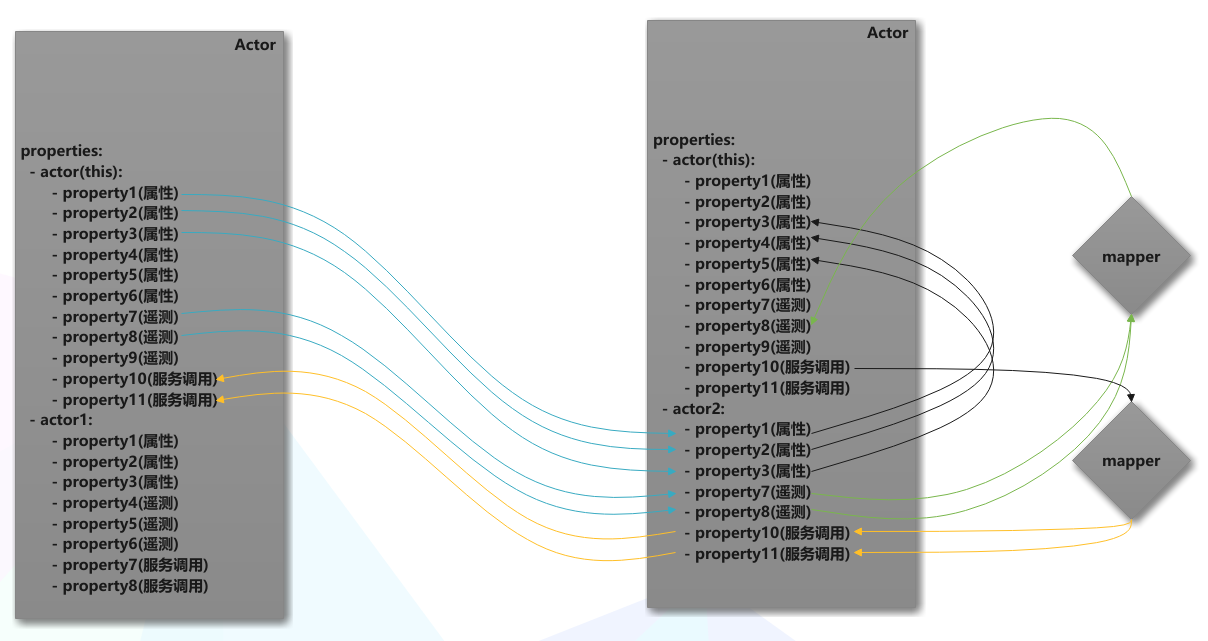
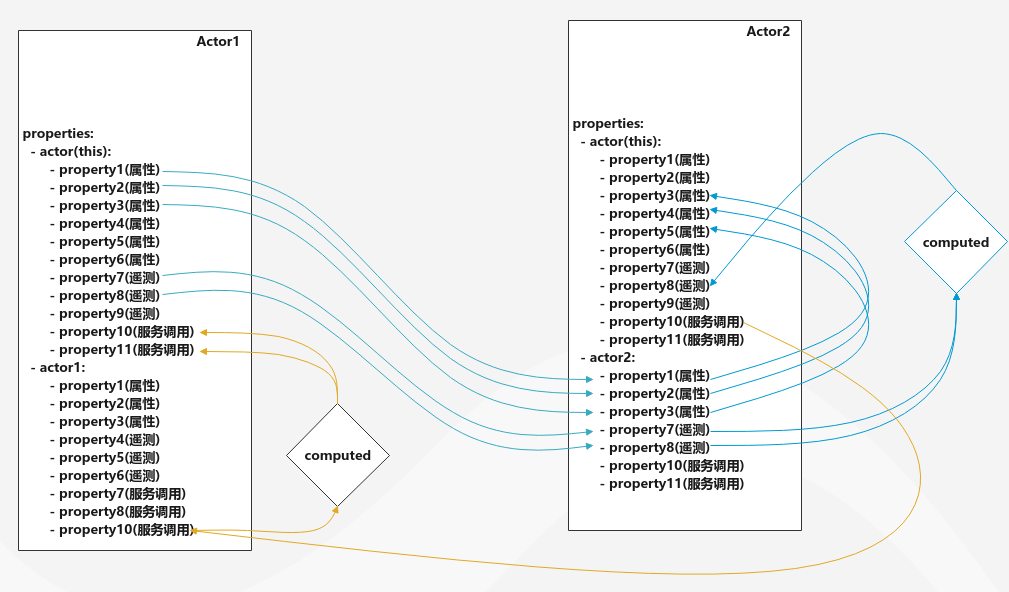
feat: uupdate entity & mapper docs.

diff --git a/docs/mapper/mapper.md b/docs/mapper/mapper.md
@@ -1,6 +1,6 @@
 ## 简介
 
-`Mapper`是对于用于实体与实体之间数据映射的一种对象，`Mapper`使用`MQL`描述实体与实体之间的数据映射。
+`mapper`是对于用于实体与实体之间数据映射的一种对象，`mapper`使用`MQL`描述实体与实体之间的数据映射。
 
 
 
@@ -11,26 +11,52 @@
 ![property-mapping](../images/property-mapping.png)
 
 
+### 概念
+
+- Actor：实体的运行时，维护实体的状态和提供的操作。
+- maper: Actor与Actor之间数据映射的执行实例。
+- computed： mapper内的计算模块，通过输入计算输出。
+- SourceActor：在映射中提供变更数据的Actor，如图中的Actor1。
+- TargetActor：在映射中作为映射目标的Actor，如图中的Actor2。
+
+
 我们通过对此过程的分析，可将这一过程分为三部分：
-1. 从一个或多个实体中选取部分属性，选取的数据可以构成一个`json`。
-2. 以选取的数据作为`Mapper`的输入，执行`Mapper`并输出一个`json`。
-3. 将`Mapper`执行的输出作为反馈更新目标实体的状态。
+1. 写复制传递实体属性的变更。
+2. 将属性的变更作为输入计算映射结果。
+3. 将映射计算结果更新到Actor。
 
 
 
-## 解析Mapper
+采用宏观的视角看来，实体与实体之间的数据映射就是从一个或多个`SourceActor`中选取部分属性作为输入，通过重组或计算得到输出，然后将输出更新到`TargetActor`。而我们可以对这一过程进行概括，来自`SourceActor`的输入组成一个`Json`数据，`映射`的输出是一个`Json`，那么此时我们发现我们所做的映射其实就是从`SourceActor`拿到输入`Json`，通过一定的转化`规则`将输入`Json`转化成另一个输出`Json`，然后在将输出的`Json`更新到`TargetActor`。
 
-![mapper-parse](../images/mapper-parse.png)
+![property-mapping-outline](../images/mapping-outline.png))
+
+我们通过对此过程的分析，可将这一过程分为三部分：
+1. 从一个或多个`SourceActor`中选取部分属性，选取的数据可以构成一个`json`。
+2. 以选取的数据作为`mapper`的输入，执行`mapper`并输出一个`json`。
+3. 将`mapper`执行的输出作为反馈更新目标实体的状态。
 
 
-## Mapper & Tentacles
+
+## 解析mapper
+
+我们知道`mapper`执行分为`选取输入`，`计算输出`，`更新目标Actor状态`三个阶段。为了满足这三个阶段，我们给`mapper`引入两个核心概念：`MQL`和`tentacle`，`MQL`是`mapper`的核心组件用于描述映射中json的转化规则，执行计算。`tentacle`译为`触手`，用于映射第一阶段中的属性变更的同步。
+
+![mapper-tentacle-mql](../images/mapper-tentacle-mql.png)
+
+
+
+<!-- ![mapper-parse](../images/mapper-parse.png) -->
+
+
+## mapper & Tentacles
 
 ![mapper-tentacles](../images/mapper-tentacles.png)
 
 
 
 
-## Mapper数据流向
+## mapper数据流向
 
 1. 浅绿色块和虚线范围都表示一个Entity，之所以如此在于解释Entity内部mapper和tentacle的关系。
 2. 绿色粗线表示Entity为mapper映射提供输入。
